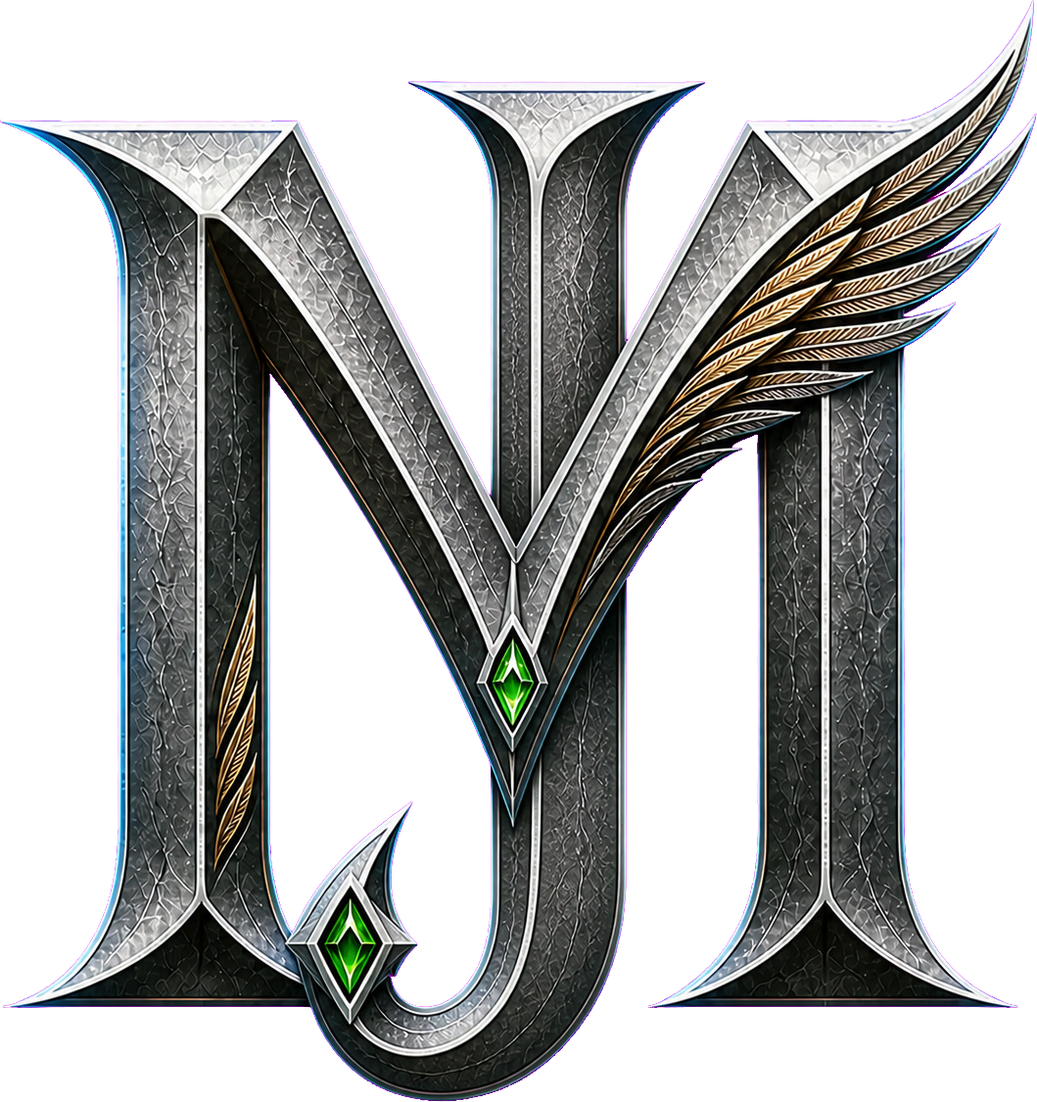
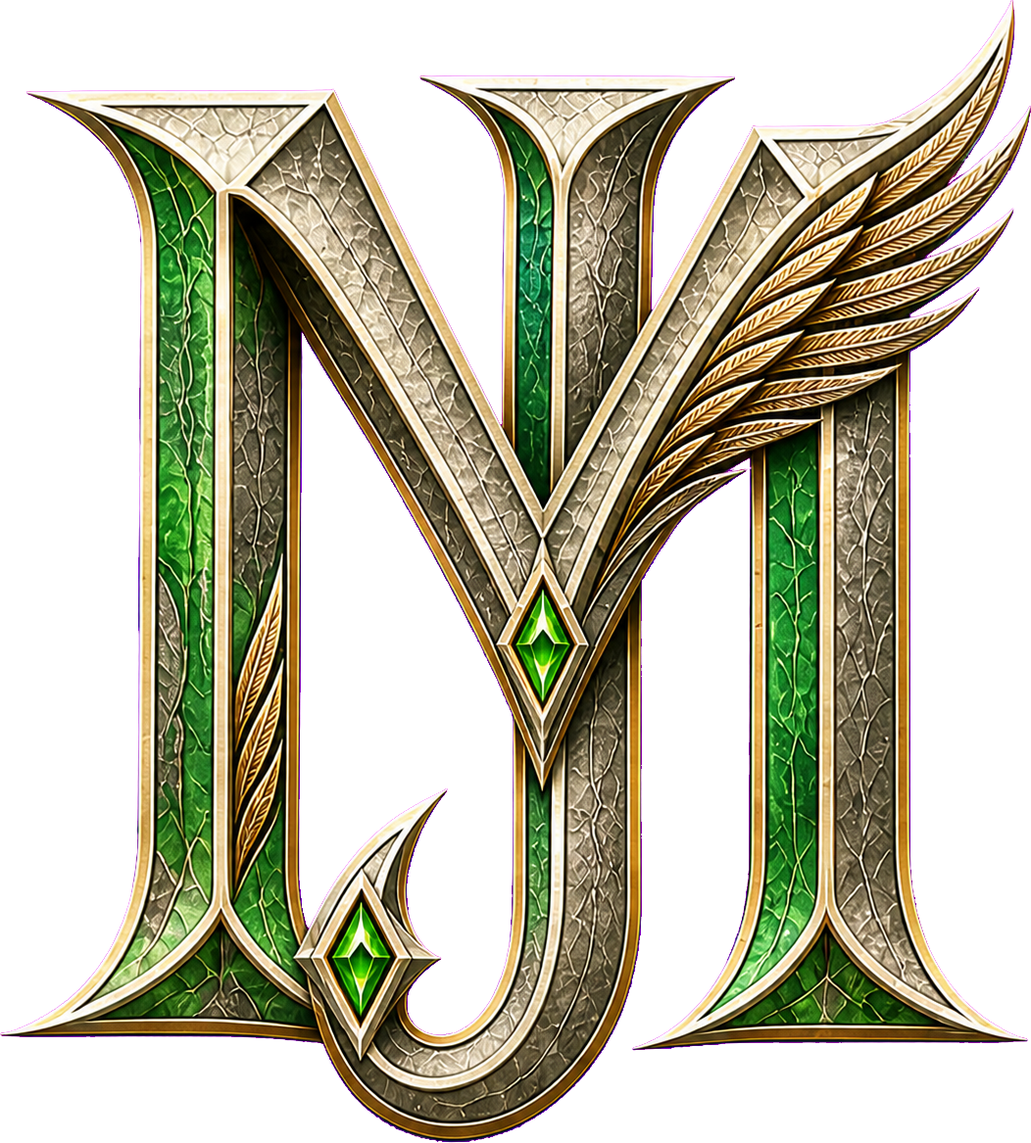
style: update UI components with new jade theme and improved styles
- Refactored PanelPage and AuthPortal components to use jade-themed styles and updated background gradients.
- Updated CharacterPanel to enhance character slot display and card styles.
- Modified SiteHeader for improved navigation item styles and background gradients.
- Enhanced Alert and Button components with new jade color scheme.
- Updated Input and Select components to reflect new jade-themed background gradients.
- Adjusted e2e tests to match updated background color for consistency.

diff --git a/portal/web/src/app/page.tsx b/portal/web/src/app/page.tsx
@@ -27,9 +27,9 @@ function OrnamentTitle({ children, light = false }: { children: React.ReactNode;
   return (
     <div className="flex w-full items-center justify-center gap-4" aria-hidden="true">
       <i className={`h-px w-[min(150px,18vw)] bg-gradient-to-r from-transparent ${light ? "via-[#cfefff]" : "via-[#967332]"} to-transparent`} />
-      <span className="size-3 bg-[#17669a] shadow-[inset_0_0_0_1px_#8eeaff,inset_0_0_0_3px_#123b57,0_0_8px_#38bdf8] [clip-path:polygon(25%_7%,75%_7%,100%_50%,75%_93%,25%_93%,0_50%)]" />
+      <span className="size-3 bg-[#16834f] shadow-[inset_0_0_0_1px_#91e5b4,inset_0_0_0_3px_#0a3a35,0_0_8px_#28b96f] [clip-path:polygon(25%_7%,75%_7%,100%_50%,75%_93%,25%_93%,0_50%)]" />
       <span className={`font-miraj-of-icarus text-xs font-semibold uppercase tracking-[.2em] ${light ? "text-[#e7f8ff]" : "text-[#765821]"}`}>{children}</span>
-      <span className="size-3 bg-[#17669a] shadow-[inset_0_0_0_1px_#8eeaff,inset_0_0_0_3px_#123b57,0_0_8px_#38bdf8] [clip-path:polygon(25%_7%,75%_7%,100%_50%,75%_93%,25%_93%,0_50%)]" />
+      <span className="size-3 bg-[#16834f] shadow-[inset_0_0_0_1px_#91e5b4,inset_0_0_0_3px_#0a3a35,0_0_8px_#28b96f] [clip-path:polygon(25%_7%,75%_7%,100%_50%,75%_93%,25%_93%,0_50%)]" />
       <i className={`h-px w-[min(150px,18vw)] bg-gradient-to-l from-transparent ${light ? "via-[#cfefff]" : "via-[#967332]"} to-transparent`} />
     </div>
   );
@@ -37,7 +37,7 @@ function OrnamentTitle({ children, light = false }: { children: React.ReactNode;
 
 function GamePlaque({ children, disabled = false }: { children: React.ReactNode; disabled?: boolean }) {
   return (
-    <span className={`inline-flex min-h-[54px] min-w-[210px] items-center justify-center bg-[length:100%_100%] bg-center bg-no-repeat px-8 font-miraj-of-icarus text-xs font-semibold uppercase tracking-[.06em] [text-shadow:0_2px_2px_#02070b] ${disabled ? "bg-[url('/media/game-ui/buttons/disabled.png')] text-[#89959a]" : "bg-[url('/media/game-ui/buttons/default.png')] text-[#e1f4fa]"}`}>
+    <span className={`inline-flex min-h-[54px] min-w-[210px] items-center justify-center bg-[length:100%_100%] bg-center bg-no-repeat px-8 font-miraj-of-icarus text-xs font-semibold uppercase tracking-[.06em] [text-shadow:0_2px_2px_#041b16] ${disabled ? "bg-[url('/media/game-ui/jade/button-disabled.png')] text-[#89958e]" : "bg-[url('/media/game-ui/jade/button-default.png')] text-[#e4ecdf]"}`}>
       {children}
     </span>
   );
@@ -45,7 +45,7 @@ function GamePlaque({ children, disabled = false }: { children: React.ReactNode;
 
 function SectionGate({ children }: { children: React.ReactNode }) {
   return (
-    <div className="relative z-10 mx-auto -mb-8 grid h-[72px] w-[min(620px,84vw)] place-items-center bg-[url('/media/game-ui/buttons/default.png')] bg-[length:100%_100%] bg-center bg-no-repeat font-miraj-of-icarus text-[clamp(1.25rem,2.7vw,2rem)] uppercase tracking-[.14em] text-[#eefaff] [text-shadow:0_2px_3px_#031522,0_0_8px_#1b83bd]">
+    <div className="relative z-10 mx-auto -mb-8 grid h-[72px] w-[min(620px,84vw)] place-items-center bg-[url('/media/game-ui/jade/button-default.png')] bg-[length:100%_100%] bg-center bg-no-repeat font-miraj-of-icarus text-[clamp(1.25rem,2.7vw,2rem)] uppercase tracking-[.14em] text-[#eef7ed] [text-shadow:0_2px_3px_#041b16,0_0_8px_#16834f]">
       {children}
     </div>
   );
@@ -88,7 +88,7 @@ export default function HomePage() {
             {paths.map((path, index) => (
               <a className="group relative grid w-[96px] shrink-0 place-items-center pt-2 max-[700px]:w-[15.5vw]" href="#jogo" key={path.id} aria-label={path.label}>
                 <Image className="size-[71px] object-contain transition-[filter,transform] group-hover:-translate-y-1 group-hover:brightness-125 max-[700px]:size-[56px]" src={`/media/game-ui/classes/${path.id}.png`} alt="" width={71} height={71} />
-                <span className={`font-miraj-of-icarus text-[.68rem] uppercase tracking-[.04em] text-[#b8cbd3] group-hover:text-[#74d9ff] max-[700px]:hidden ${index === 0 ? "text-[#65cdf7]" : ""}`}>{path.label}</span>
+                <span className={`font-miraj-of-icarus text-[.68rem] uppercase tracking-[.04em] text-[#b8c8bc] group-hover:text-[#91e5b4] max-[700px]:hidden ${index === 0 ? "text-[#70d69d]" : ""}`}>{path.label}</span>
               </a>
             ))}
           </div>
@@ -122,7 +122,7 @@ export default function HomePage() {
               {paths.map((path, index) => (
                 <div className="group grid min-h-32 place-items-center content-center" key={path.id}>
                   <Image className="h-auto w-[89px] object-contain transition-[filter,transform] group-hover:-translate-y-1 group-hover:brightness-125" src={`/media/game-ui/classes/${path.id}${index === 0 ? "-selected" : ""}.png`} alt="" width={index === 0 ? 89 : 71} height={index === 0 ? 113 : 71} />
-                  <span className={`font-miraj-of-icarus text-xs uppercase tracking-[.08em] ${index === 0 ? "-mt-2 text-[#69d8ff]" : "mt-2 text-[#c7d5da]"}`}>{path.label}</span>
+                  <span className={`font-miraj-of-icarus text-xs uppercase tracking-[.08em] ${index === 0 ? "-mt-2 text-[#70d69d]" : "mt-2 text-[#c7d5ca]"}`}>{path.label}</span>
                 </div>
               ))}
             </div>
@@ -136,18 +136,18 @@ export default function HomePage() {
           <div className="mx-auto grid w-[min(1120px,100%)] grid-cols-[1fr_380px] items-center gap-20 max-[900px]:grid-cols-1">
             <div className="text-center max-[900px]:mx-auto max-[900px]:max-w-[680px]">
               <OrnamentTitle light>O retorno de Miraj of Icarus</OrnamentTitle>
-              <h2 className="my-7 font-miraj-of-icarus text-[clamp(3rem,5vw,5rem)] font-semibold leading-[.86] text-[#f2f7e9] [text-shadow:0_3px_8px_#061725]">A memória permanece.<br /><span className="text-[#7bdcff]">A fundação evolui.</span></h2>
+              <h2 className="my-7 font-miraj-of-icarus text-[clamp(3rem,5vw,5rem)] font-semibold leading-[.86] text-[#f2f7e9] [text-shadow:0_3px_8px_#061725]">A memória permanece.<br /><span className="text-[#91e5b4]">A fundação evolui.</span></h2>
               <p className="mx-auto max-w-[690px] leading-[1.85] text-[#d2e4eb]">O mundo é reconstruído sistema por sistema, preservando sua identidade e preparando launcher, cliente e servidores para uma nova geração de viajantes.</p>
               <div className="mt-10 grid grid-cols-3 gap-3 max-[650px]:grid-cols-1">
                 {[["Integridade", "Arquivos verificados"], ["Evolução", "Atualizações contínuas"], ["Preservação", "Identidade original"]].map(([title, copy]) => (
                   <div className="border-y border-[#668aa0] bg-[#071b2b]/72 px-4 py-6 shadow-[inset_0_0_0_1px_rgba(119,206,239,.08)]" key={title}>
-                    <strong className="block font-miraj-of-icarus text-lg uppercase text-[#78d8fa]">{title}</strong><span className="text-sm text-[#bfd0d7]">{copy}</span>
+                    <strong className="block font-miraj-of-icarus text-lg uppercase text-[#91e5b4]">{title}</strong><span className="text-sm text-[#c5d4c9]">{copy}</span>
                   </div>
                 ))}
               </div>
             </div>
-            <div className="relative mx-auto grid aspect-square w-[min(360px,82vw)] place-items-center before:absolute before:inset-[13%] before:rotate-45 before:border before:border-[#75d7fa]/60 before:bg-[#0c3654]/65 before:shadow-[0_0_30px_rgba(67,190,236,.18)]">
-              <Image className="relative z-10 h-auto w-[78%] drop-shadow-[0_22px_20px_rgba(3,17,28,.65)]" src="/media/branding/miraj-mj-mark.png" alt="Símbolo MJ de Miraj of Icarus" width={1059} height={1125} />
+            <div className="relative mx-auto grid aspect-square w-[min(360px,82vw)] place-items-center before:absolute before:inset-[13%] before:rotate-45 before:border before:border-[#91e5b4]/60 before:bg-[#0a3a35]/65 before:shadow-[0_0_30px_rgba(40,185,111,.2)]">
+              <Image className="relative z-10 h-auto w-[78%] drop-shadow-[0_22px_20px_rgba(3,17,28,.65)]" src="/media/branding/miraj-mj-mark.png" alt="Símbolo MJ de Miraj of Icarus" width={1052} height={1167} />
             </div>
           </div>
         </section>
@@ -161,7 +161,7 @@ export default function HomePage() {
             <div className="mt-10 border-y border-[#7693a2] bg-[#0b2940] p-2 shadow-[0_22px_45px_rgba(27,61,78,.25)]">
               {servers.map(server => (
                 <article className="flex min-h-24 items-center justify-between border-b border-[#36566b] bg-[linear-gradient(90deg,#102e44,#173e58,#102e44)] px-8 text-left last:border-0 max-[600px]:px-4" key={server.id}>
-                  <div><span className="text-[.65rem] uppercase tracking-[.2em] text-[#7bdcff]">{server.region}</span><h3 className="font-miraj-of-icarus text-2xl text-white">{server.name}</h3></div>
+                  <div><span className="text-[.65rem] uppercase tracking-[.2em] text-[#91e5b4]">{server.region}</span><h3 className="font-miraj-of-icarus text-2xl text-white">{server.name}</h3></div>
                   <span className={`font-miraj-of-icarus uppercase tracking-[.12em] ${server.available ? "text-[#8df2ce]" : "text-[#9eafb6]"}`}>{server.available ? "Online" : "Manutenção"}</span>
                 </article>
               ))}
@@ -174,7 +174,7 @@ export default function HomePage() {
         <section className="relative isolate flex min-h-[680px] w-full flex-col items-center justify-center overflow-hidden px-6 py-28 text-center text-white" id="download">
           <div className="absolute inset-0 -z-20 bg-[url('/media/portal-hero-v3.png')] bg-cover bg-center" aria-hidden="true" />
           <div className="absolute inset-0 -z-10 bg-[radial-gradient(circle_at_50%_35%,rgba(21,80,116,.28),rgba(5,24,40,.88)_72%),linear-gradient(180deg,rgba(5,24,40,.15),#061928)]" aria-hidden="true" />
-          <Image className="mb-3 h-auto w-[min(720px,90vw)] drop-shadow-[0_10px_16px_rgba(3,17,28,.72)]" src="/media/branding/miraj-of-icarus-wordmark.png" alt="Miraj of Icarus" width={1649} height={687} />
+          <Image className="mb-3 h-auto w-[min(720px,90vw)] drop-shadow-[0_10px_16px_rgba(3,17,28,.72)]" src="/media/branding/miraj-of-icarus-wordmark.png" alt="Miraj of Icarus" width={1413} height={673} />
           <OrnamentTitle light>Miraj of Icarus para Windows</OrnamentTitle>
           <h2 className="my-6 font-miraj-of-icarus text-[clamp(3rem,5.4vw,5.5rem)] font-semibold leading-[.84] text-[#f7f3df] [text-shadow:0_3px_12px_#08223a]">Sua jornada começa<br />pelo launcher.</h2>
           <p className="mb-8 max-w-[580px] leading-7 text-[#e5f2f6] [text-shadow:0_2px_8px_#08223a]">Instale, verifique e mantenha o cliente atualizado antes de atravessar os portões.</p>
@@ -189,7 +189,7 @@ export default function HomePage() {
             </>
           ) : !releaseQuery.isLoading && (
             <div className="border-y border-[#6a8da1] bg-[#071d30]/88 px-9 py-5 shadow-[0_10px_30px_rgba(5,24,40,.45)] backdrop-blur-sm">
-              <strong className="block font-miraj-of-icarus text-xl uppercase tracking-[.08em] text-[#79ddff]">Release em preparação</strong>
+              <strong className="block font-miraj-of-icarus text-xl uppercase tracking-[.08em] text-[#91e5b4]">Release em preparação</strong>
               <span className="text-sm text-[#d9e8ed]">O download aparecerá quando o canal Alpha estiver disponível.</span>
             </div>
           )}
@@ -198,7 +198,7 @@ export default function HomePage() {
 
       <footer className="w-full border-t border-[#4f7186] bg-[#061725] px-6">
         <div className="mx-auto flex min-h-28 w-[min(1120px,100%)] items-center justify-between font-miraj-of-icarus text-xs uppercase tracking-[.1em] text-[#9fb2bb] max-[700px]:flex-col max-[700px]:justify-center max-[700px]:gap-3">
-          <Link href="#inicio" aria-label="Miraj of Icarus — voltar ao início"><Image className="h-auto w-52" src="/media/branding/miraj-of-icarus-wordmark.png" alt="Miraj of Icarus" width={1649} height={687} /></Link>
+          <Link href="#inicio" aria-label="Miraj of Icarus — voltar ao início"><Image className="h-auto w-52" src="/media/branding/miraj-of-icarus-wordmark.png" alt="Miraj of Icarus" width={1413} height={673} /></Link>
           <p>Uma reconstrução independente em andamento</p><p>© {new Date().getFullYear()}</p>
         </div>
       </footer>

diff --git a/portal/web/src/components/CharacterPanel.tsx b/portal/web/src/components/CharacterPanel.tsx
@@ -73,12 +73,12 @@ export function CharacterPanel({ enabled }: { enabled: boolean }) {
     <section className="mb-28" id="personagens" aria-labelledby="characters-title">
       <div className="mb-11 flex items-end justify-between gap-8 max-[620px]:flex-col max-[620px]:items-start">
         <div><Kicker>Até quatro viajantes</Kicker><h2 id="characters-title" className="font-display text-[clamp(2.65rem,5vw,5rem)] font-medium leading-[.95] tracking-[-.025em]">Seus personagens</h2></div>
-        <span className="grid min-h-[54px] min-w-[180px] place-items-center bg-[url('/media/game-ui/buttons/default.png')] bg-[length:100%_100%] bg-center bg-no-repeat px-5 font-miraj-of-icarus text-xs font-semibold uppercase tracking-[.06em] text-[#d8e7eb] [text-shadow:0_2px_2px_#02070b]">{values.length} / 4 slots</span>
+        <span className="grid min-h-[54px] min-w-[180px] place-items-center bg-[url('/media/game-ui/jade/button-default.png')] bg-[length:100%_100%] bg-center bg-no-repeat px-5 font-miraj-of-icarus text-xs font-semibold uppercase tracking-[.06em] text-[#e4ecdf] [text-shadow:0_2px_2px_#041b16]">{values.length} / 4 slots</span>
       </div>
       {message && <Alert className="mb-5" kind={message.kind} role="status">{message.text}</Alert>}
       <div className="grid grid-cols-2 gap-4 max-[900px]:grid-cols-1">
         {values.map(character => (
-          <article className={`relative grid min-h-[250px] grid-cols-[76px_1fr] content-start gap-5 border-0 bg-gradient-to-br from-[#24465a] to-[#0b2435] p-7 shadow-[inset_0_0_0_1px_#506d7b,inset_0_0_0_3px_#142c39] [clip-path:polygon(14px_0,calc(100%-14px)_0,100%_14px,100%_calc(100%-14px),calc(100%-14px)_100%,14px_100%,0_calc(100%-14px),0_14px)] max-[620px]:grid-cols-[62px_1fr] max-[620px]:p-5 ${character.deletionScheduledAt ? "opacity-75" : ""}`} key={character.id}>
+          <article className={`jade-card relative grid min-h-[280px] grid-cols-[76px_1fr] content-start gap-5 px-3 py-3 drop-shadow-[0_18px_28px_rgba(3,27,22,.3)] max-[620px]:grid-cols-[62px_1fr] max-[620px]:px-0 max-[620px]:py-2 ${character.deletionScheduledAt ? "opacity-75" : ""}`} key={character.id}>
             <Image className="h-[71px] w-[71px] object-contain max-[620px]:size-[62px]" src={`/media/game-ui/classes/${character.archetype}.png`} alt="" width={71} height={71} />
             <div><p className="mb-1 text-xs uppercase tracking-[.14em] text-ancient-gold">{classes[character.archetype] ?? character.archetype} · Nível {character.level}</p><h3 className="mb-1 font-display text-3xl font-medium">{character.name}</h3><p className="text-xs text-mist">Criado em {formatDate(character.createdAt)}</p></div>
             {character.deletionScheduledAt ? (
@@ -98,7 +98,7 @@ export function CharacterPanel({ enabled }: { enabled: boolean }) {
           </article>
         ))}
         {values.length < 4 && (
-          <article className="relative min-h-[250px] border-0 bg-gradient-to-br from-[#24465a] to-[#0b2435] p-7 shadow-[inset_0_0_0_1px_#506d7b,inset_0_0_0_3px_#142c39] [clip-path:polygon(14px_0,calc(100%-14px)_0,100%_14px,100%_calc(100%-14px),calc(100%-14px)_100%,14px_100%,0_calc(100%-14px),0_14px)] max-[620px]:p-5">
+          <article className="jade-card relative min-h-[280px] px-3 py-3 drop-shadow-[0_18px_28px_rgba(3,27,22,.3)] max-[620px]:px-0 max-[620px]:py-2">
             <p className="mb-1 text-xs uppercase tracking-[.14em] text-ancient-gold">Novo viajante</p><h3 className="font-display text-3xl font-medium">Prepare uma história</h3>
             <form className="mt-5 grid gap-3.5" onSubmit={createCharacter}>
               <label className={labelClass}>Nome<Input name="name" minLength={3} maxLength={24} pattern="[A-Za-zÀ-ÿ0-9]+" required /></label>
@@ -110,7 +110,7 @@ export function CharacterPanel({ enabled }: { enabled: boolean }) {
                       <input className="peer sr-only" type="radio" name="archetype" value={value} defaultChecked={index === 0} />
                       <Image className="mt-3 size-[71px] object-contain transition-[filter] group-hover:brightness-125 peer-checked:hidden" src={`/media/game-ui/classes/${value}.png`} alt="" width={71} height={71} />
                       <Image className="hidden h-auto w-[89px] object-contain drop-shadow-[0_4px_8px_rgba(22,164,235,.4)] peer-checked:block" src={`/media/game-ui/classes/${value}-selected.png`} alt="" width={89} height={113} />
-                      <span className="font-miraj-of-icarus text-[.68rem] font-semibold uppercase tracking-[.03em] text-mist peer-checked:text-[#20caff] peer-checked:[text-shadow:0_0_7px_rgba(32,202,255,.75)]">{label}</span>
+                      <span className="font-miraj-of-icarus text-[.68rem] font-semibold uppercase tracking-[.03em] text-mist peer-checked:text-jade peer-checked:[text-shadow:0_0_7px_rgba(40,185,111,.75)]">{label}</span>
                     </label>
                   ))}
                 </div>
@@ -121,7 +121,7 @@ export function CharacterPanel({ enabled }: { enabled: boolean }) {
                   {[["male", "Masculino", "♂"], ["female", "Feminino", "♀"]].map(([value, label, symbol], index) => (
                     <label className="cursor-pointer" key={value}>
                       <input className="peer sr-only" type="radio" name="gender" value={value} defaultChecked={index === 0} />
-                      <span className="flex min-h-[54px] items-center justify-center gap-2 bg-[url('/media/game-ui/buttons/default.png')] bg-[length:100%_100%] bg-center bg-no-repeat font-miraj-of-icarus text-xs font-semibold uppercase tracking-[.04em] text-mist [text-shadow:0_2px_2px_#02070b] peer-checked:bg-[url('/media/game-ui/buttons/focused.png')] peer-checked:text-white peer-checked:drop-shadow-[0_0_7px_rgba(30,139,255,.55)]"><b className="text-lg font-normal">{symbol}</b>{label}</span>
+                      <span className="flex min-h-[54px] items-center justify-center gap-2 bg-[url('/media/game-ui/jade/button-default.png')] bg-[length:100%_100%] bg-center bg-no-repeat font-miraj-of-icarus text-xs font-semibold uppercase tracking-[.04em] text-mist [text-shadow:0_2px_2px_#041b16] peer-checked:bg-[url('/media/game-ui/jade/button-focused.png')] peer-checked:text-white peer-checked:drop-shadow-[0_0_7px_rgba(40,185,111,.55)]"><b className="text-lg font-normal">{symbol}</b>{label}</span>
                     </label>
                   ))}
                 </div>

diff --git a/portal/web/src/components/SiteHeader.tsx b/portal/web/src/components/SiteHeader.tsx
@@ -5,7 +5,7 @@ import { routes } from "@/routes";
 
 type Props = { compact?: boolean };
 
-const navItem = "relative z-10 grid min-h-[66px] min-w-[154px] place-items-center px-7 font-miraj-of-icarus text-[.78rem] font-semibold uppercase tracking-[.08em] text-[#d5e2e7] [text-shadow:0_2px_2px_#02070b] transition-[color,filter] after:absolute after:inset-x-6 after:bottom-[10px] after:h-px after:origin-center after:scale-x-0 after:bg-[linear-gradient(90deg,transparent,#6edcff,transparent)] after:transition-transform hover:text-white hover:drop-shadow-[0_0_7px_rgba(63,199,246,.7)] hover:after:scale-x-100 focus-visible:text-white focus-visible:after:scale-x-100 max-[1050px]:min-w-[130px] max-[900px]:min-w-[112px] max-[900px]:px-4 max-[700px]:min-w-[104px]";
+const navItem = "relative z-10 grid min-h-[66px] min-w-[154px] place-items-center px-7 font-miraj-of-icarus text-[.78rem] font-semibold uppercase tracking-[.08em] text-[#e0e9df] [text-shadow:0_2px_2px_#041b16] transition-[color,filter] after:absolute after:inset-x-6 after:bottom-[10px] after:h-px after:origin-center after:scale-x-0 after:bg-[linear-gradient(90deg,transparent,#28b96f,transparent)] after:transition-transform hover:text-white hover:drop-shadow-[0_0_7px_rgba(40,185,111,.7)] hover:after:scale-x-100 focus-visible:text-white focus-visible:after:scale-x-100 max-[1050px]:min-w-[130px] max-[900px]:min-w-[112px] max-[900px]:px-4 max-[700px]:min-w-[104px]";
 
 export function SiteHeader({ compact = false }: Props) {
   return (
@@ -18,14 +18,14 @@ export function SiteHeader({ compact = false }: Props) {
         <Link className="hover:text-frost" href={`${routes.panel}?modo=cadastro`}>Criar conta</Link>
       </div>
 
-      <nav className="relative grid h-[72px] grid-cols-[1fr_240px_1fr] items-center before:absolute before:inset-x-0 before:top-1/2 before:h-[66px] before:-translate-y-1/2 before:border-y before:border-[#9eb8c3] before:bg-[linear-gradient(180deg,rgba(239,249,251,.22)_0%,rgba(23,58,81,.96)_8%,rgba(6,29,47,.98)_48%,rgba(13,45,66,.98)_90%,rgba(213,232,237,.26)_100%)] before:shadow-[inset_0_2px_0_rgba(255,255,255,.17),inset_0_-2px_0_rgba(0,0,0,.48),0_8px_22px_rgba(2,18,29,.48)] after:absolute after:inset-x-[-18px] after:top-1/2 after:h-[50px] after:-translate-y-1/2 after:border-y after:border-[#b38a3e]/65 after:[clip-path:polygon(1.5%_0,98.5%_0,100%_50%,98.5%_100%,1.5%_100%,0_50%)] max-[1050px]:grid-cols-[1fr_200px_1fr] max-[900px]:grid-cols-[1fr_160px_1fr] max-[700px]:h-[58px] max-[700px]:grid-cols-[1fr_92px_1fr] max-[700px]:before:h-[54px] max-[700px]:after:h-[42px]" aria-label="Navegação principal">
+      <nav className="relative grid h-[72px] grid-cols-[1fr_240px_1fr] items-center before:absolute before:inset-x-0 before:top-1/2 before:h-[66px] before:-translate-y-1/2 before:border-y before:border-[#8db6a0] before:bg-[linear-gradient(180deg,rgba(234,241,231,.2)_0%,rgba(15,78,64,.96)_8%,rgba(5,39,37,.98)_48%,rgba(10,58,53,.98)_90%,rgba(215,221,207,.24)_100%)] before:shadow-[inset_0_2px_0_rgba(255,255,255,.17),inset_0_-2px_0_rgba(0,0,0,.48),0_8px_22px_rgba(2,24,20,.48)] after:absolute after:inset-x-[-18px] after:top-1/2 after:h-[50px] after:-translate-y-1/2 after:border-y after:border-[#b99a5b]/65 after:[clip-path:polygon(1.5%_0,98.5%_0,100%_50%,98.5%_100%,1.5%_100%,0_50%)] max-[1050px]:grid-cols-[1fr_200px_1fr] max-[900px]:grid-cols-[1fr_160px_1fr] max-[700px]:h-[58px] max-[700px]:grid-cols-[1fr_92px_1fr] max-[700px]:before:h-[54px] max-[700px]:after:h-[42px]" aria-label="Navegação principal">
         <div className="col-start-1 flex items-center justify-end max-[700px]:pr-0">
           <Link className={navItem} href={routes.home}>Início</Link>
           <Link className={`${navItem} max-[700px]:hidden`} href={routes.game}>O jogo</Link>
         </div>
 
         <Link className="absolute -top-12 left-1/2 z-20 grid size-[166px] -translate-x-1/2 place-items-center before:absolute before:inset-[12px] before:-z-10 before:rotate-45 before:border before:border-[#d3e4e9]/70 before:bg-[linear-gradient(135deg,#173c55,#071d30_62%,#b38738)] before:shadow-[inset_0_0_0_5px_rgba(5,24,40,.8),0_12px_24px_rgba(3,19,31,.65)] after:absolute after:inset-[22px] after:-z-10 after:rotate-45 after:border after:border-[#b88e43]/65 after:bg-[#08233a] max-[900px]:-top-8 max-[900px]:size-[132px] max-[700px]:-top-4 max-[700px]:size-[92px]" href={routes.home} aria-label="Miraj of Icarus — início">
-          <Image className="size-full object-contain drop-shadow-[0_9px_8px_rgba(2,15,25,.75)]" src="/media/branding/miraj-mj-mark.png" alt="" width={1059} height={1125} priority />
+          <Image className="size-full object-contain drop-shadow-[0_9px_8px_rgba(2,24,20,.75)]" src="/media/branding/miraj-mj-mark.png" alt="" width={1052} height={1167} priority />
         </Link>
 
         <div className="col-start-3 flex items-center max-[700px]:justify-end max-[700px]:pl-0">

diff --git a/portal/web/src/components/AuthPortal.tsx b/portal/web/src/components/AuthPortal.tsx
@@ -46,18 +46,17 @@ export function AuthPortal({ mode, initialError }: { mode: string; initialError?
   }
 
   const labelClass = "grid gap-2 text-xs uppercase tracking-[.1em] text-mist";
-  const tabClass = "relative grid min-h-[54px] place-items-center bg-[url('/media/game-ui/buttons/default.png')] bg-[length:100%_100%] bg-center bg-no-repeat px-5 font-miraj-of-icarus text-xs font-semibold uppercase tracking-[.055em] text-[#cbd8dc] [text-shadow:0_2px_2px_#02070b] hover:bg-[url('/media/game-ui/buttons/focused.png')]";
-  const activeTabClass = "bg-[url('/media/game-ui/buttons/focused.png')] text-white drop-shadow-[0_0_8px_rgba(30,139,255,.65)]";
+  const tabClass = "relative grid min-h-[54px] place-items-center bg-[url('/media/game-ui/jade/button-default.png')] bg-[length:100%_100%] bg-center bg-no-repeat px-5 font-miraj-of-icarus text-xs font-semibold uppercase tracking-[.055em] text-[#dce8de] [text-shadow:0_2px_2px_#041b16] hover:bg-[url('/media/game-ui/jade/button-focused.png')]";
   return (
     <main className="relative grid min-h-[calc(100vh-142px)] place-items-center bg-[linear-gradient(90deg,rgba(7,30,50,.82),rgba(7,30,50,.3),rgba(7,30,50,.7)),url('/media/portal-hero-v3.png')] bg-cover bg-center px-6 py-20 max-[620px]:px-4">
       <div className="pointer-events-none fixed inset-0 bg-[radial-gradient(circle_at_50%_35%,rgba(255,232,157,.12),transparent_35%)]" aria-hidden="true" />
-      <section className="relative w-[min(500px,100%)] bg-[linear-gradient(145deg,rgba(35,70,90,.96),rgba(7,29,45,.97))] p-10 shadow-[inset_0_0_0_1px_#607c89,inset_0_0_0_4px_#112b39,0_30px_90px_rgba(5,28,46,.46)] [clip-path:polygon(18px_0,calc(100%-18px)_0,100%_18px,100%_calc(100%-18px),calc(100%-18px)_100%,18px_100%,0_calc(100%-18px),0_18px)] before:pointer-events-none before:absolute before:left-1/2 before:top-0 before:h-1 before:w-28 before:-translate-x-1/2 before:bg-frost before:shadow-[0_0_18px_rgba(112,217,234,.65)] max-[620px]:p-6" aria-labelledby="auth-title">
+      <section className="jade-card relative w-[min(620px,100%)] px-8 py-7 drop-shadow-[0_30px_60px_rgba(3,27,22,.48)] max-[620px]:px-2 max-[620px]:py-5" aria-labelledby="auth-title">
         <Kicker>Portal do jogador</Kicker>
         <h1 id="auth-title" className="mb-3 font-display text-[clamp(2.8rem,6vw,4.3rem)] font-medium leading-[.9]">{registering ? "Abra sua passagem." : "Retorne ao reino."}</h1>
         <p className="leading-relaxed text-mist">{registering ? "Crie sua conta para preparar seus personagens e acompanhar os reinos." : "Entre para acessar seus personagens, o estado dos reinos e a versão mais recente."}</p>
         <div className="my-6 grid grid-cols-2 gap-2" role="tablist" aria-label="Acesso à conta">
-          <Link className={`${tabClass} ${!registering ? activeTabClass : ""}`} role="tab" aria-selected={!registering} href={routes.panel}>Entrar</Link>
-          <Link className={`${tabClass} ${registering ? activeTabClass : ""}`} role="tab" aria-selected={registering} href={`${routes.panel}?modo=cadastro`}>Criar conta</Link>
+          <Link className={`${tabClass} ${!registering ? "text-white drop-shadow-[0_0_8px_rgba(40,185,111,.65)]" : ""}`} style={{ backgroundImage: `url('/media/game-ui/jade/button-${!registering ? "focused" : "default"}.png')` }} role="tab" aria-selected={!registering} href={routes.panel}>Entrar</Link>
+          <Link className={`${tabClass} ${registering ? "text-white drop-shadow-[0_0_8px_rgba(40,185,111,.65)]" : ""}`} style={{ backgroundImage: `url('/media/game-ui/jade/button-${registering ? "focused" : "default"}.png')` }} role="tab" aria-selected={registering} href={`${routes.panel}?modo=cadastro`}>Criar conta</Link>
         </div>
         {error && <Alert className="mb-4" role="alert">{messages[error] ?? "Não foi possível concluir a ação."}</Alert>}
         <form className="grid gap-4" onSubmit={submit}>

diff --git a/portal/web/src/components/ui/Button.tsx b/portal/web/src/components/ui/Button.tsx
@@ -4,15 +4,15 @@ import { cn } from "@/lib/cn";
 type Variant = "primary" | "secondary" | "ghost" | "danger";
 
 const variants: Record<Variant, string> = {
-  primary: "text-[#eafaff]",
-  secondary: "text-[#dce9ed]",
-  ghost: "text-[#dce9ed]",
+  primary: "text-[#f2f6e9]",
+  secondary: "text-[#e4ecdf]",
+  ghost: "text-[#e4ecdf]",
   danger: "text-[#ffd9dc] saturate-[.65]",
 };
 
 export function buttonStyles(variant: Variant = "secondary", large = false) {
   return cn(
-    "inline-flex min-h-[54px] min-w-[220px] cursor-pointer items-center justify-center gap-4 border-0 bg-[url('/media/game-ui/buttons/default.png')] bg-[length:100%_100%] bg-center bg-no-repeat px-9 font-miraj-of-icarus text-[.92rem] font-semibold uppercase tracking-[.055em] [text-shadow:0_2px_2px_#02070b,0_0_5px_#02070b] transition-[filter,transform] duration-100 hover:bg-[url('/media/game-ui/buttons/focused.png')] hover:text-white hover:drop-shadow-[0_0_9px_rgba(30,139,255,.75)] active:translate-y-px active:bg-[url('/media/game-ui/buttons/pressed.png')] focus-visible:bg-[url('/media/game-ui/buttons/focused.png')] disabled:cursor-not-allowed disabled:bg-[url('/media/game-ui/buttons/disabled.png')] disabled:text-[#89959a] disabled:drop-shadow-none",
+    "inline-flex min-h-[54px] min-w-[220px] cursor-pointer items-center justify-center gap-4 border-0 bg-[url('/media/game-ui/jade/button-default.png')] bg-[length:100%_100%] bg-center bg-no-repeat px-9 font-miraj-of-icarus text-[.92rem] font-semibold uppercase tracking-[.055em] [text-shadow:0_2px_2px_#041b16,0_0_5px_#041b16] transition-[filter,transform] duration-100 hover:bg-[url('/media/game-ui/jade/button-focused.png')] hover:text-white hover:drop-shadow-[0_0_9px_rgba(40,185,111,.65)] active:translate-y-px active:bg-[url('/media/game-ui/jade/button-pressed.png')] focus-visible:bg-[url('/media/game-ui/jade/button-focused.png')] disabled:cursor-not-allowed disabled:bg-[url('/media/game-ui/jade/button-disabled.png')] disabled:text-[#89958e] disabled:drop-shadow-none",
     large && "min-h-[62px] min-w-[252px] px-10",
     variants[variant],
   );

diff --git a/portal/web/src/app/globals.css b/portal/web/src/app/globals.css
@@ -9,12 +9,14 @@
 }
 
 @theme {
-  --color-abyss: #081725;
-  --color-iron: #152b3c;
-  --color-moonsteel: #f1ead8;
-  --color-mist: #a9b8be;
-  --color-frost: #70d9ea;
-  --color-ancient-gold: #c7a04b;
+  --color-abyss: #061f20;
+  --color-iron: #0a3a35;
+  --color-moonsteel: #eaf1e7;
+  --color-mist: #aebdb2;
+  --color-frost: #91e5b4;
+  --color-jade: #28b96f;
+  --color-jade-deep: #0f704a;
+  --color-ancient-gold: #b99a5b;
   --color-antique: #826532;
   --color-blood: #244f75;
   --color-royal: #173f67;
@@ -50,8 +52,26 @@
     font-family: "MirajOfIcarus Display";
     -webkit-font-smoothing: antialiased;
   }
-  ::selection { color: var(--color-abyss); background: var(--color-frost); }
-  :focus-visible { outline: 2px solid var(--color-frost); outline-offset: 4px; }
+  ::selection { color: var(--color-abyss); background: var(--color-jade); }
+  :focus-visible { outline: 2px solid var(--color-jade); outline-offset: 4px; }
+}
+
+@layer components {
+  .jade-card {
+    border: 42px solid transparent;
+    border-image-source: url("/media/game-ui/jade/card.png");
+    border-image-slice: 76 170 fill;
+    border-image-width: 42px 58px;
+    border-image-repeat: stretch;
+    background: #073a35;
+  }
+}
+
+@media (max-width: 620px) {
+  .jade-card {
+    border-width: 28px;
+    border-image-width: 30px 38px;
+  }
 }
 
 @media (prefers-reduced-motion: reduce) {

diff --git a/portal/web/src/app/painel/page.tsx b/portal/web/src/app/painel/page.tsx
@@ -44,11 +44,11 @@ export default function PanelPage({
   }
 
   const availableServers = (servers.data ?? []).filter(server => server.available).length;
-  const overviewClass = "flex min-h-[165px] flex-col justify-between bg-[linear-gradient(145deg,#24465a,#0b2638)] p-6 shadow-[inset_0_0_0_1px_#506d7b,inset_0_0_0_3px_#142c39] [clip-path:polygon(12px_0,100%_0,100%_calc(100%-12px),calc(100%-12px)_100%,0_100%,0_12px)]";
+  const overviewClass = "jade-card flex min-h-[190px] flex-col justify-between px-0 py-0 drop-shadow-[0_14px_20px_rgba(3,27,22,.28)]";
   const overviewLabel = "text-xs uppercase tracking-[.16em] text-ancient-gold";
   const overviewValue = "font-display text-2xl font-medium";
   return (
-    <div className="min-h-screen overflow-hidden bg-[radial-gradient(circle_at_50%_0%,rgba(112,217,234,.14),transparent_28%)] bg-abyss">
+    <div className="min-h-screen overflow-hidden bg-[radial-gradient(circle_at_50%_0%,rgba(40,185,111,.16),transparent_28%)] bg-abyss">
       <SiteHeader compact />
       <main className="mx-auto w-[min(1180px,calc(100%-48px))] py-20 max-[620px]:w-[calc(100%-32px)] max-[620px]:pt-14">
         <header className="flex min-h-[250px] items-center justify-between gap-8 border-b border-moonsteel/20 max-[620px]:flex-col max-[620px]:items-start max-[620px]:py-12">

diff --git a/portal/web/src/components/ui/Select.tsx b/portal/web/src/components/ui/Select.tsx
@@ -4,7 +4,7 @@ import { cn } from "@/lib/cn";
 export function Select({ className, ...props }: SelectHTMLAttributes<HTMLSelectElement>) {
   return (
     <select
-      className={cn("min-h-11 w-full border-0 bg-[linear-gradient(180deg,#203c4d,#102837)] px-4 text-moonsteel shadow-[inset_0_0_0_1px_#5c7581,inset_0_0_0_3px_#142b38] outline-0 [clip-path:polygon(8px_0,100%_0,100%_calc(100%-8px),calc(100%-8px)_100%,0_100%,0_8px)] focus:shadow-[inset_0_0_0_1px_#61d8ff,inset_0_0_0_3px_#123247,0_0_12px_rgba(82,212,231,.22)]", className)}
+      className={cn("min-h-11 w-full border-0 bg-[linear-gradient(180deg,#17463f,#0a302d)] px-4 text-moonsteel shadow-[inset_0_0_0_1px_#607c6b,inset_0_0_0_3px_#0b2926] outline-0 [clip-path:polygon(8px_0,100%_0,100%_calc(100%-8px),calc(100%-8px)_100%,0_100%,0_8px)] focus:shadow-[inset_0_0_0_1px_#91e5b4,inset_0_0_0_3px_#0f493c,0_0_12px_rgba(40,185,111,.28)]", className)}
       {...props}
     />
   );

diff --git a/portal/web/src/components/ui/Input.tsx b/portal/web/src/components/ui/Input.tsx
@@ -4,7 +4,7 @@ import { cn } from "@/lib/cn";
 export function Input({ className, ...props }: InputHTMLAttributes<HTMLInputElement>) {
   return (
     <input
-      className={cn("min-h-11 w-full border-0 bg-[linear-gradient(180deg,#203c4d,#102837)] px-4 text-moonsteel shadow-[inset_0_0_0_1px_#5c7581,inset_0_0_0_3px_#142b38] outline-0 [clip-path:polygon(8px_0,100%_0,100%_calc(100%-8px),calc(100%-8px)_100%,0_100%,0_8px)] focus:shadow-[inset_0_0_0_1px_#61d8ff,inset_0_0_0_3px_#123247,0_0_12px_rgba(82,212,231,.22)]", className)}
+      className={cn("min-h-11 w-full border-0 bg-[linear-gradient(180deg,#17463f,#0a302d)] px-4 text-moonsteel shadow-[inset_0_0_0_1px_#607c6b,inset_0_0_0_3px_#0b2926] outline-0 [clip-path:polygon(8px_0,100%_0,100%_calc(100%-8px),calc(100%-8px)_100%,0_100%,0_8px)] focus:shadow-[inset_0_0_0_1px_#91e5b4,inset_0_0_0_3px_#0f493c,0_0_12px_rgba(40,185,111,.28)]", className)}
       {...props}
     />
   );

diff --git a/portal/web/tests/e2e/portal.spec.ts b/portal/web/tests/e2e/portal.spec.ts
@@ -6,7 +6,7 @@ test("landing apresenta o mundo e o estado seguro de release", async ({ page }) 
   await expect(page.getByRole("link", { name: "Acessar painel" })).toBeVisible();
   await expect(page.getByRole("heading", { name: /Um mundo antigo/i })).toBeVisible();
   await expect(page.getByText("Release em preparação")).toBeVisible();
-  await expect(page.locator("body")).toHaveCSS("background-color", "rgb(8, 23, 37)");
+  await expect(page.locator("body")).toHaveCSS("background-color", "rgb(6, 31, 32)");
 });
 
 test("painel visitante alterna para cadastro e valida os campos", async ({ page }) => {

diff --git a/portal/web/src/components/ui/Alert.tsx b/portal/web/src/components/ui/Alert.tsx
@@ -12,7 +12,7 @@ export function Alert({
         "px-5 py-3 text-sm [clip-path:polygon(8px_0,100%_0,100%_calc(100%-8px),calc(100%-8px)_100%,0_100%,0_8px)]",
         kind === "error"
           ? "bg-danger/15 text-[#ffd5da] shadow-[inset_0_0_0_1px_#a85c65]"
-          : "bg-frost/10 text-[#c9f8ff] shadow-[inset_0_0_0_1px_#52d4e7]",
+          : "bg-jade/10 text-[#d7f8e4] shadow-[inset_0_0_0_1px_#28b96f]",
         className,
       )}
       {...props}
